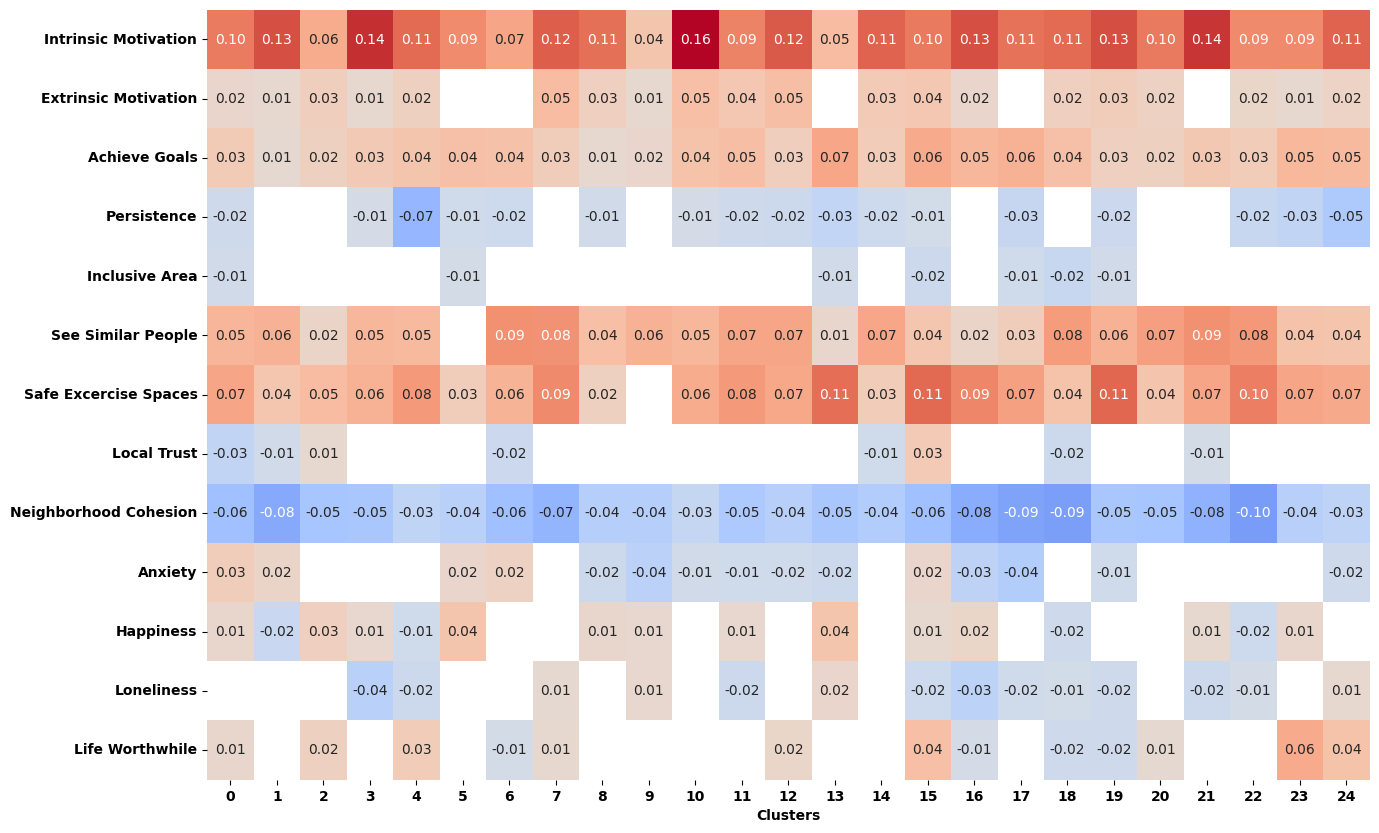
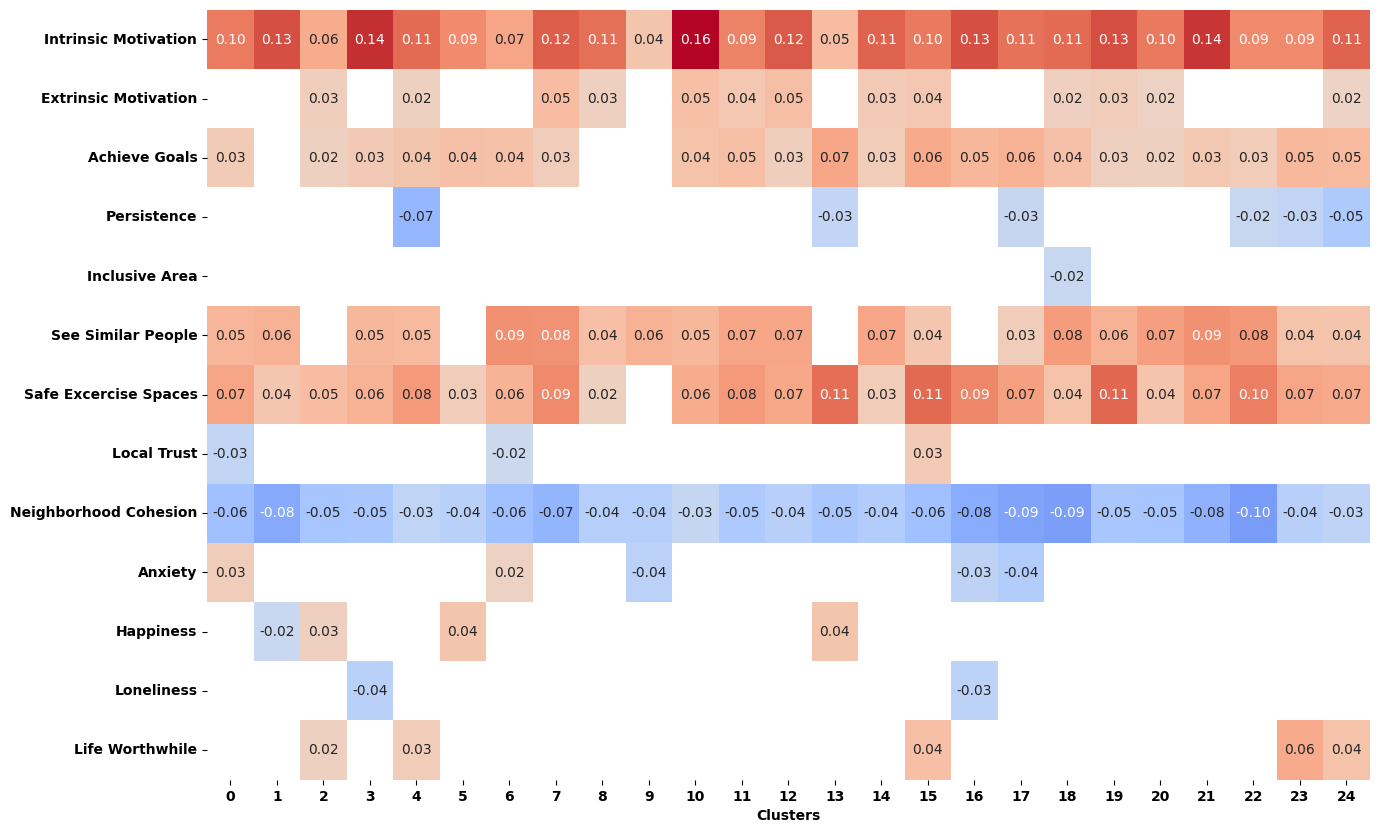
increased the threshold for noise on heatplot

diff --git a/src/perturbation/create_perturbations.py b/src/perturbation/create_perturbations.py
@@ -15,7 +15,7 @@ def create_save_heatplot(breakdowns : pd.DataFrame, heatplot_name : str):
     heatplot_path = ROOT / 'figures' / 'perturbation'
 
     heat = breakdowns.drop(columns = 'labels').T
-    mask = heat.abs() < 0.01
+    mask = heat.abs() < 0.02
     plt.figure(figsize=(15, 10))
     sns.heatmap(
         heat,
@@ -23,8 +23,6 @@ def create_save_heatplot(breakdowns : pd.DataFrame, heatplot_name : str):
         #cmap="YlOrBr",
         cmap='coolwarm',
         fmt='.2f',
-        linecolor='white',
-        #linewidths=0.1,
         mask=mask,
         center=0,
         yticklabels=[
